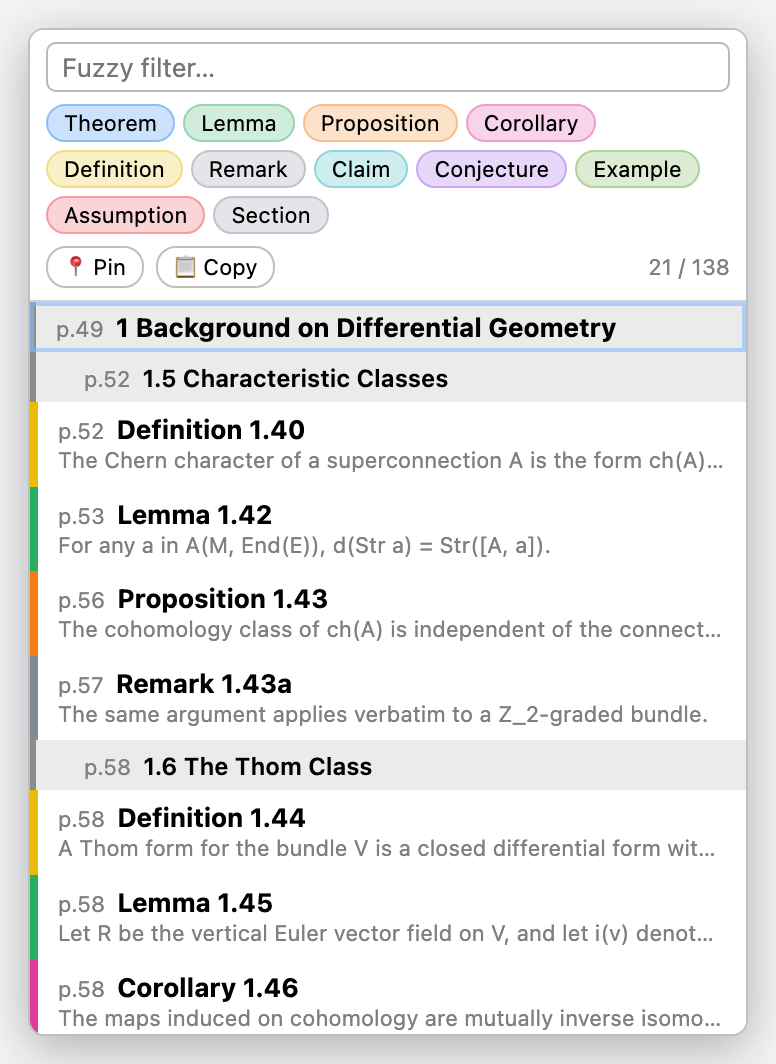
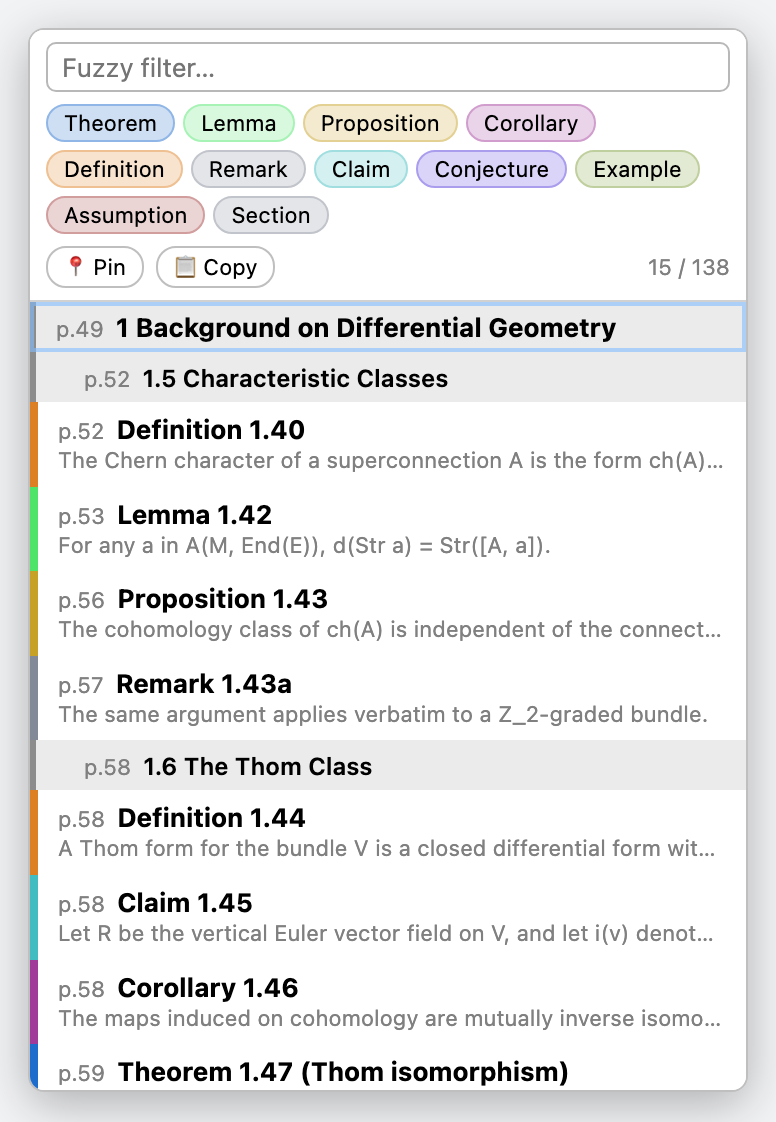
Release v0.6.0

Changed region(s): [[0.0309, 0.031, 0.9588, 0.9925]]

diff --git a/bootstrap.js b/bootstrap.js
@@ -6,28 +6,64 @@
  * symlink it into Zotero's extensions dir) — see README.md.
  */
 
-// Environment keywords to list. Edit to taste (add Notation, Problem, …).
-const KEYWORDS = [
-	"Theorem", "Lemma", "Proposition", "Corollary",
-	"Definition", "Remark", "Claim", "Conjecture", "Example", "Assumption",
+// Default environments and their stripe colors. All of this is editable in
+// Settings -> Theorem List; the pref below becomes the source of truth once the
+// user changes anything. The colors were solved for maximum perceptual
+// separation (min CIEDE2000 ~17.7) so no two stripes read as the same color.
+const DEFAULT_TYPES = [
+	{ kw: "Theorem", color: "#1e6ccc" },
+	{ kw: "Lemma", color: "#4ee46a" },
+	{ kw: "Proposition", color: "#c7a126" },
+	{ kw: "Corollary", color: "#a03b9a" },
+	{ kw: "Definition", color: "#dd8024" },
+	{ kw: "Remark", color: "#828997" },
+	{ kw: "Claim", color: "#41bdc1" },
+	{ kw: "Conjecture", color: "#553add" },
+	{ kw: "Example", color: "#819f3c" },
+	{ kw: "Assumption", color: "#a23a3a" },
 ];
 
-// Accent hue per type: a 4px stripe on the row, a tint on the filter chip.
-// Spread around the wheel so neighbouring types stay distinguishable, and
-// mixed with Canvas at paint time so both light and dark themes work without
-// hardcoding text colors.
-const TYPE_COLORS = {
-	Theorem: "hsl(212 90% 52%)", Lemma: "hsl(145 62% 42%)",
-	Proposition: "hsl(28 92% 52%)", Corollary: "hsl(322 72% 55%)",
-	Definition: "hsl(48 95% 47%)", Remark: "hsl(220 9% 55%)",
-	Claim: "hsl(184 72% 42%)", Conjecture: "hsl(268 72% 60%)",
-	Example: "hsl(96 55% 42%)", Assumption: "hsl(356 78% 57%)",
-};
-const FALLBACK_COLOR = "hsl(220 9% 55%)";
+// Handed out in order to keywords added without a chosen color. Solved against
+// the defaults above, so an added type stays distinguishable from them.
+const SPARE_COLORS = ["#d4507a", "#cbd82d", "#e44ee4", "#df4f29", "#35a77b", "#269bd6"];
+
+const PREF_TYPES = "extensions.zotero.theoremList.types";
+const FALLBACK_COLOR = "#828997";
+
+// Derived from DEFAULT_TYPES or the pref; refreshed by loadTypes().
+let KEYWORDS = DEFAULT_TYPES.map((t) => t.kw);
+let TYPE_COLORS = Object.fromEntries(DEFAULT_TYPES.map((t) => [t.kw, t.color]));
+
+function applyTypes(list) {
+	const l = (list && list.length) ? list : DEFAULT_TYPES;
+	KEYWORDS = l.map((t) => t.kw);
+	TYPE_COLORS = Object.fromEntries(l.map((t) => [t.kw, t.color]));
+}
+
+// Read the pref into KEYWORDS/TYPE_COLORS. The pref is user-editable text, so
+// none of it is trusted: malformed rows are dropped and an unparseable value
+// falls back to the defaults rather than leaving the plugin with no keywords.
+function loadTypes() {
+	try {
+		const raw = Zotero.Prefs.get(PREF_TYPES, true);
+		if (raw) {
+			applyTypes(JSON.parse(raw)
+				.filter((t) => t && typeof t.kw === "string" && t.kw.trim())
+				.map((t) => ({
+					kw: t.kw.trim(),
+					color: /^#[0-9a-fA-F]{6}$/.test(t.color) ? t.color : FALLBACK_COLOR,
+				})));
+			return;
+		}
+	} catch (e) {
+		Zotero.debug("Theorem List: unreadable types pref, using defaults - " + e);
+	}
+	applyTypes(null);
+}
 
 // A label after the keyword: "3.1", "1.2.3", "A.1", "B", roman "IV", or none.
 // (Standalone letters/roman use a negative lookahead so "About"/"In" aren't labels.)
-const LABEL_RE = /^[ \t]*(\d+(?:\.\d+)*|[A-Z](?:\.\d+)+|[IVXLC]+(?![a-z])|[A-Z](?![a-z]))?[ \t]*/;
+const LABEL_RE = /^[ \t]*(\d+(?:\.\d+)*|\p{Lu}(?:\.\d+)+|[IVXLC]+(?!\p{Ll})|\p{Lu}(?!\p{Ll}))?[ \t]*/u;
 
 // Decide whether a reconstructed line is a theorem header, and split it.
 // `bold` = is the line's leading keyword set in a bold font?
@@ -40,7 +76,7 @@ const LABEL_RE = /^[ \t]*(\d+(?:\.\d+)*|[A-Z](?:\.\d+)+|[IVXLC]+(?![a-z])|[A-Z](
 // Dotted leaders ("Theorem 3.1 ...... 45") are table-of-contents entries → drop.
 function classify(text, bold) {
 	if (/\.\s*\.\s*\./.test(text)) return null; // TOC leader dots
-	const w = text.match(/^[A-Za-z]+/);
+	const w = text.match(/^\p{L}+/u); // \p{L}, not [A-Za-z]: keywords may be Cyrillic etc.
 	if (!w) return null;
 	const type = KEYWORDS.find((k) => k.toLowerCase() === w[0].toLowerCase());
 	if (!type) return null;
@@ -56,8 +92,8 @@ function classify(text, bold) {
 
 	const next = after.replace(/^\s+/, "").charAt(0);
 	const headerLike = bold
-		? (!!label || !!name || next === "" || /[.:(]/.test(next) || /[A-Z]/.test(next))
-		: ((!!label || !!name) && next !== "" && !/[a-z,;]/.test(next));
+		? (!!label || !!name || next === "" || /[.:(]/.test(next) || /\p{Lu}/u.test(next))
+		: ((!!label || !!name) && next !== "" && !/[\p{Ll},;]/u.test(next));
 	if (!headerLike) return null;
 
 	const head = [type, label, name].filter(Boolean).join(" ");
@@ -76,6 +112,8 @@ function fuzzy(q, text) {
 }
 
 let onRenderToolbar; // kept for unregister on shutdown
+let prefObserver;  // Symbol from Zotero.Prefs.registerObserver
+let prefPane;      // id from Zotero.PreferencePanes.register
 let openPanel; // { el, cleanup } of the single open popup, or null
 // Attachment id → scanned items. A PDF's text never changes, so a scan stays
 // valid for the session; keyed off the reader object's item rather than the
@@ -88,14 +126,39 @@ let pinned = false;         // when on, panel survives jumps and outside clicks
 let savedQuery = "";        // fuzzy filter text
 const savedHidden = new Set(); // type names toggled off
 
-function startup({ id }) {
+function startup({ id, rootURI }) {
+	loadTypes();
+	prefObserver = Zotero.Prefs.registerObserver(PREF_TYPES, onTypesChanged, true);
+	// The prefs pane reads these instead of duplicating the defaults.
+	Zotero.TheoremList = { DEFAULT_TYPES, SPARE_COLORS, PREF: PREF_TYPES };
+	Zotero.PreferencePanes.register({
+		pluginID: id,
+		src: rootURI + "prefs.xhtml",
+		scripts: [rootURI + "prefs.js"],
+		label: "Theorem List",
+	}).then((paneID) => { prefPane = paneID; },
+		(e) => Zotero.debug("Theorem List: prefs pane failed to register - " + e));
+
 	onRenderToolbar = (event) => renderButton(event);
 	Zotero.Reader.registerEventListener("renderToolbar", onRenderToolbar, id);
+}
+
+// Keywords or colors changed → every cached scan was produced by the old rules,
+// so drop them all and close any panel still showing the old list.
+function onTypesChanged() {
+	loadTypes();
+	scanCache.clear();
+	closePanel();
 }
 
 function shutdown() {
 	closePanel();
 	scanCache.clear();
+	if (prefObserver) Zotero.Prefs.unregisterObserver(prefObserver);
+	prefObserver = null;
+	if (prefPane) Zotero.PreferencePanes.unregister(prefPane);
+	prefPane = null;
+	delete Zotero.TheoremList;
 	if (onRenderToolbar && Zotero.Reader.unregisterEventListener) {
 		Zotero.Reader.unregisterEventListener("renderToolbar", onRenderToolbar);
 	}
@@ -586,4 +649,4 @@ function charsToLines(chars) {
 }
 
 // node-only: lets test.js import the pure helpers; no-op inside Zotero.
-if (typeof module !== "undefined") module.exports = { charsToLines, classify, fuzzy };
+if (typeof module !== "undefined") module.exports = { charsToLines, classify, fuzzy, applyTypes };

diff --git a/prefs.js b/prefs.js
@@ -1,0 +1,84 @@
+/* Preferences pane for Theorem List. Registered from bootstrap.js; runs in the
+ * Zotero settings window. The keyword/color table is stored as one JSON string
+ * in a single pref, which bootstrap.js observes and reloads on change.
+ */
+{
+	const { DEFAULT_TYPES, SPARE_COLORS, PREF } = Zotero.TheoremList;
+	const XHTML = "http://www.w3.org/1999/xhtml";
+	const rowsEl = document.getElementById("tl-rows");
+	// The settings window is XHTML, but build elements namespaced anyway so a
+	// XUL-document host can't turn these into unstyled XUL boxes.
+	const h = (tag) => document.createElementNS(XHTML, tag);
+
+	const readPref = () => {
+		try {
+			const list = JSON.parse(Zotero.Prefs.get(PREF, true) || "null");
+			return (Array.isArray(list) && list.length) ? list : null;
+		} catch (e) {
+			return null; // unreadable → show defaults; saving overwrites it
+		}
+	};
+
+	// First spare not already on screen, so adding rows never repeats a color.
+	const nextColor = () => {
+		const used = new Set([...rowsEl.querySelectorAll(".tl-color")].map((i) => i.value.toLowerCase()));
+		return SPARE_COLORS.find((c) => !used.has(c)) || SPARE_COLORS[0];
+	};
+
+	const save = () => {
+		const list = [...rowsEl.children]
+			.map((tr) => ({
+				kw: tr.querySelector(".tl-kw").value.trim(),
+				color: tr.querySelector(".tl-color").value,
+			}))
+			.filter((t) => t.kw); // a blank keyword is a row in progress, not an entry
+		Zotero.Prefs.set(PREF, JSON.stringify(list), true);
+	};
+
+	function addRow(t) {
+		const tr = h("tr");
+		const kw = h("input");
+		kw.type = "text";
+		kw.className = "tl-kw";
+		kw.value = t.kw;
+		kw.placeholder = "Keyword";
+		const color = h("input");
+		color.type = "color";
+		color.className = "tl-color";
+		color.value = t.color;
+		const del = h("button");
+		del.type = "button";
+		del.className = "tl-del";
+		del.textContent = "✕";
+		del.title = "Remove";
+
+		// "change", not "input": committing on blur avoids rewriting the pref —
+		// and dropping every cached scan — on each keystroke.
+		kw.addEventListener("change", save);
+		color.addEventListener("change", save);
+		del.addEventListener("click", () => { tr.remove(); save(); });
+
+		for (const el of [kw, color, del]) {
+			const td = h("td");
+			td.append(el);
+			tr.append(td);
+		}
+		rowsEl.append(tr);
+		return tr;
+	}
+
+	const render = (list) => {
+		rowsEl.replaceChildren();
+		for (const t of list) addRow(t);
+	};
+
+	render(readPref() || DEFAULT_TYPES);
+
+	document.getElementById("tl-add").addEventListener("click", () => {
+		addRow({ kw: "", color: nextColor() }).querySelector(".tl-kw").focus();
+	});
+	document.getElementById("tl-reset").addEventListener("click", () => {
+		Zotero.Prefs.clear(PREF, true);
+		render(DEFAULT_TYPES);
+	});
+}

diff --git a/test.js b/test.js
@@ -1,6 +1,6 @@
 // Self-check: node test.js  (exits non-zero on failure)
 const assert = require("assert");
-const { charsToLines, classify, fuzzy } = require("./bootstrap.js");
+const { charsToLines, classify, fuzzy, applyTypes } = require("./bootstrap.js");
 
 // --- classify: bold regime (number optional, reject section-title shape) ---
 assert.deepStrictEqual(classify("Theorem.", true), { type: "Theorem", head: "Theorem", rest: "" });
@@ -51,6 +51,19 @@ assert.strictEqual(lines[1].bold, false, "body line should not be bold");
 
 const hits = lines.map((l) => classify(l.text, l.bold)).filter(Boolean);
 assert.deepStrictEqual(hits.map((h) => h.head), ["Theorem 3.1"], "hits: " + JSON.stringify(hits));
+
+// --- classify: non-Latin keywords added via Settings -> Theorem List ---
+applyTypes([{ kw: "Лемма", color: "#4ee46a" }, { kw: "Утверждение", color: "#1e6ccc" }]);
+assert.deepStrictEqual(classify("Лемма 1.2. Пусть x", true),
+	{ type: "Лемма", head: "Лемма 1.2", rest: "Пусть x" });
+assert.deepStrictEqual(classify("Утверждение 3 (Ключевое). Для", false),
+	{ type: "Утверждение", head: "Утверждение 3 (Ключевое)", rest: "Для" });
+assert.strictEqual(classify("лемма 7. текст", false).type, "Лемма");   // case-folds in Cyrillic too
+assert.strictEqual(classify("Лемма 1.2 мы получаем", false), null);    // cross-ref: lowercase Cyrillic
+assert.strictEqual(classify("Лемма 1.2, см. выше", false), null);      // cross-ref: comma
+assert.strictEqual(classify("Theorem 3.1. Let x", true), null);        // not in the configured list
+applyTypes(null); // back to defaults for anything after this
+assert.strictEqual(classify("Theorem 3.1. Let x", true).type, "Theorem");
 
 // --- fuzzy: subsequence (caller lowercases) ---
 assert.ok(fuzzy("", "anything"));

diff --git a/README.md b/README.md
@@ -23,7 +23,7 @@ of the list as you scroll.
 ```sh
 # Build the installable .xpi (just a zip of these files):
 cd zotero-theorem-list
-zip -r theorem-list.xpi manifest.json bootstrap.js icon.svg
+zip -r theorem-list.xpi manifest.json bootstrap.js icon.svg prefs.xhtml prefs.js
 ```
 
 Then in Zotero: **Tools → Plugins → gear icon → Install Plugin From File…**
@@ -34,9 +34,28 @@ file named `theorem-list@local` (the id from `manifest.json`) inside your Zotero
 profile's `extensions/` directory whose contents are the absolute path to this
 folder, then restart Zotero.
 
+## Settings
+
+**Zotero → Settings → Theorem List** lists the environments the plugin looks
+for, each with its stripe color:
+
+- **Add keyword** appends a row. Keywords are matched case-insensitively and can
+  be in any language — `Лемма`, `Utsagn` and `Satz` work the same as `Theorem`.
+  New rows get a color that stays distinct from the ones already in use.
+- Click a swatch to recolor any environment, built-in ones included.
+- **✕** removes a row; **Reset to defaults** restores the built-in list.
+
+Changes apply immediately — open panels close and cached scans are dropped, so
+the next open re-scans with the new keywords.
+
+The defaults are ten environments whose colors are solved for maximum
+perceptual separation (minimum CIEDE2000 distance ≈ 17.7), so no two stripes
+read as the same color at 4px wide.
+
 ## Tweak it
 
-- Edit `KEYWORDS` in `bootstrap.js` to change which environments are listed.
+- `DEFAULT_TYPES` in `bootstrap.js` seeds the settings list; `SPARE_COLORS` is
+  the sequence handed to newly added keywords.
 - `node test.js` runs the self-check for the line-grouping + matching logic.
 
 ## Caveats
@@ -45,7 +64,8 @@ folder, then restart Zotero.
   even without a number (catches `Theorem.`, `Theorem A.1`, `Theorem IV`); a
   non-bold keyword must be followed by a number/letter *and* a header-shaped
   continuation, which drops in-text cross-references (`…by Theorem 3.1 we…`) and
-  table-of-contents entries. Tune `KEYWORDS` / `classify` in `bootstrap.js`.
+  table-of-contents entries. Tune the keyword list in Settings, or `classify`
+  in `bootstrap.js`.
 - Uses the reader's internal `_internalReader._primaryView` to reach pdf.js,
   which is not a documented API — may need a touch-up across major Zotero updates.
 - PDF-only (no EPUB/snapshot).
